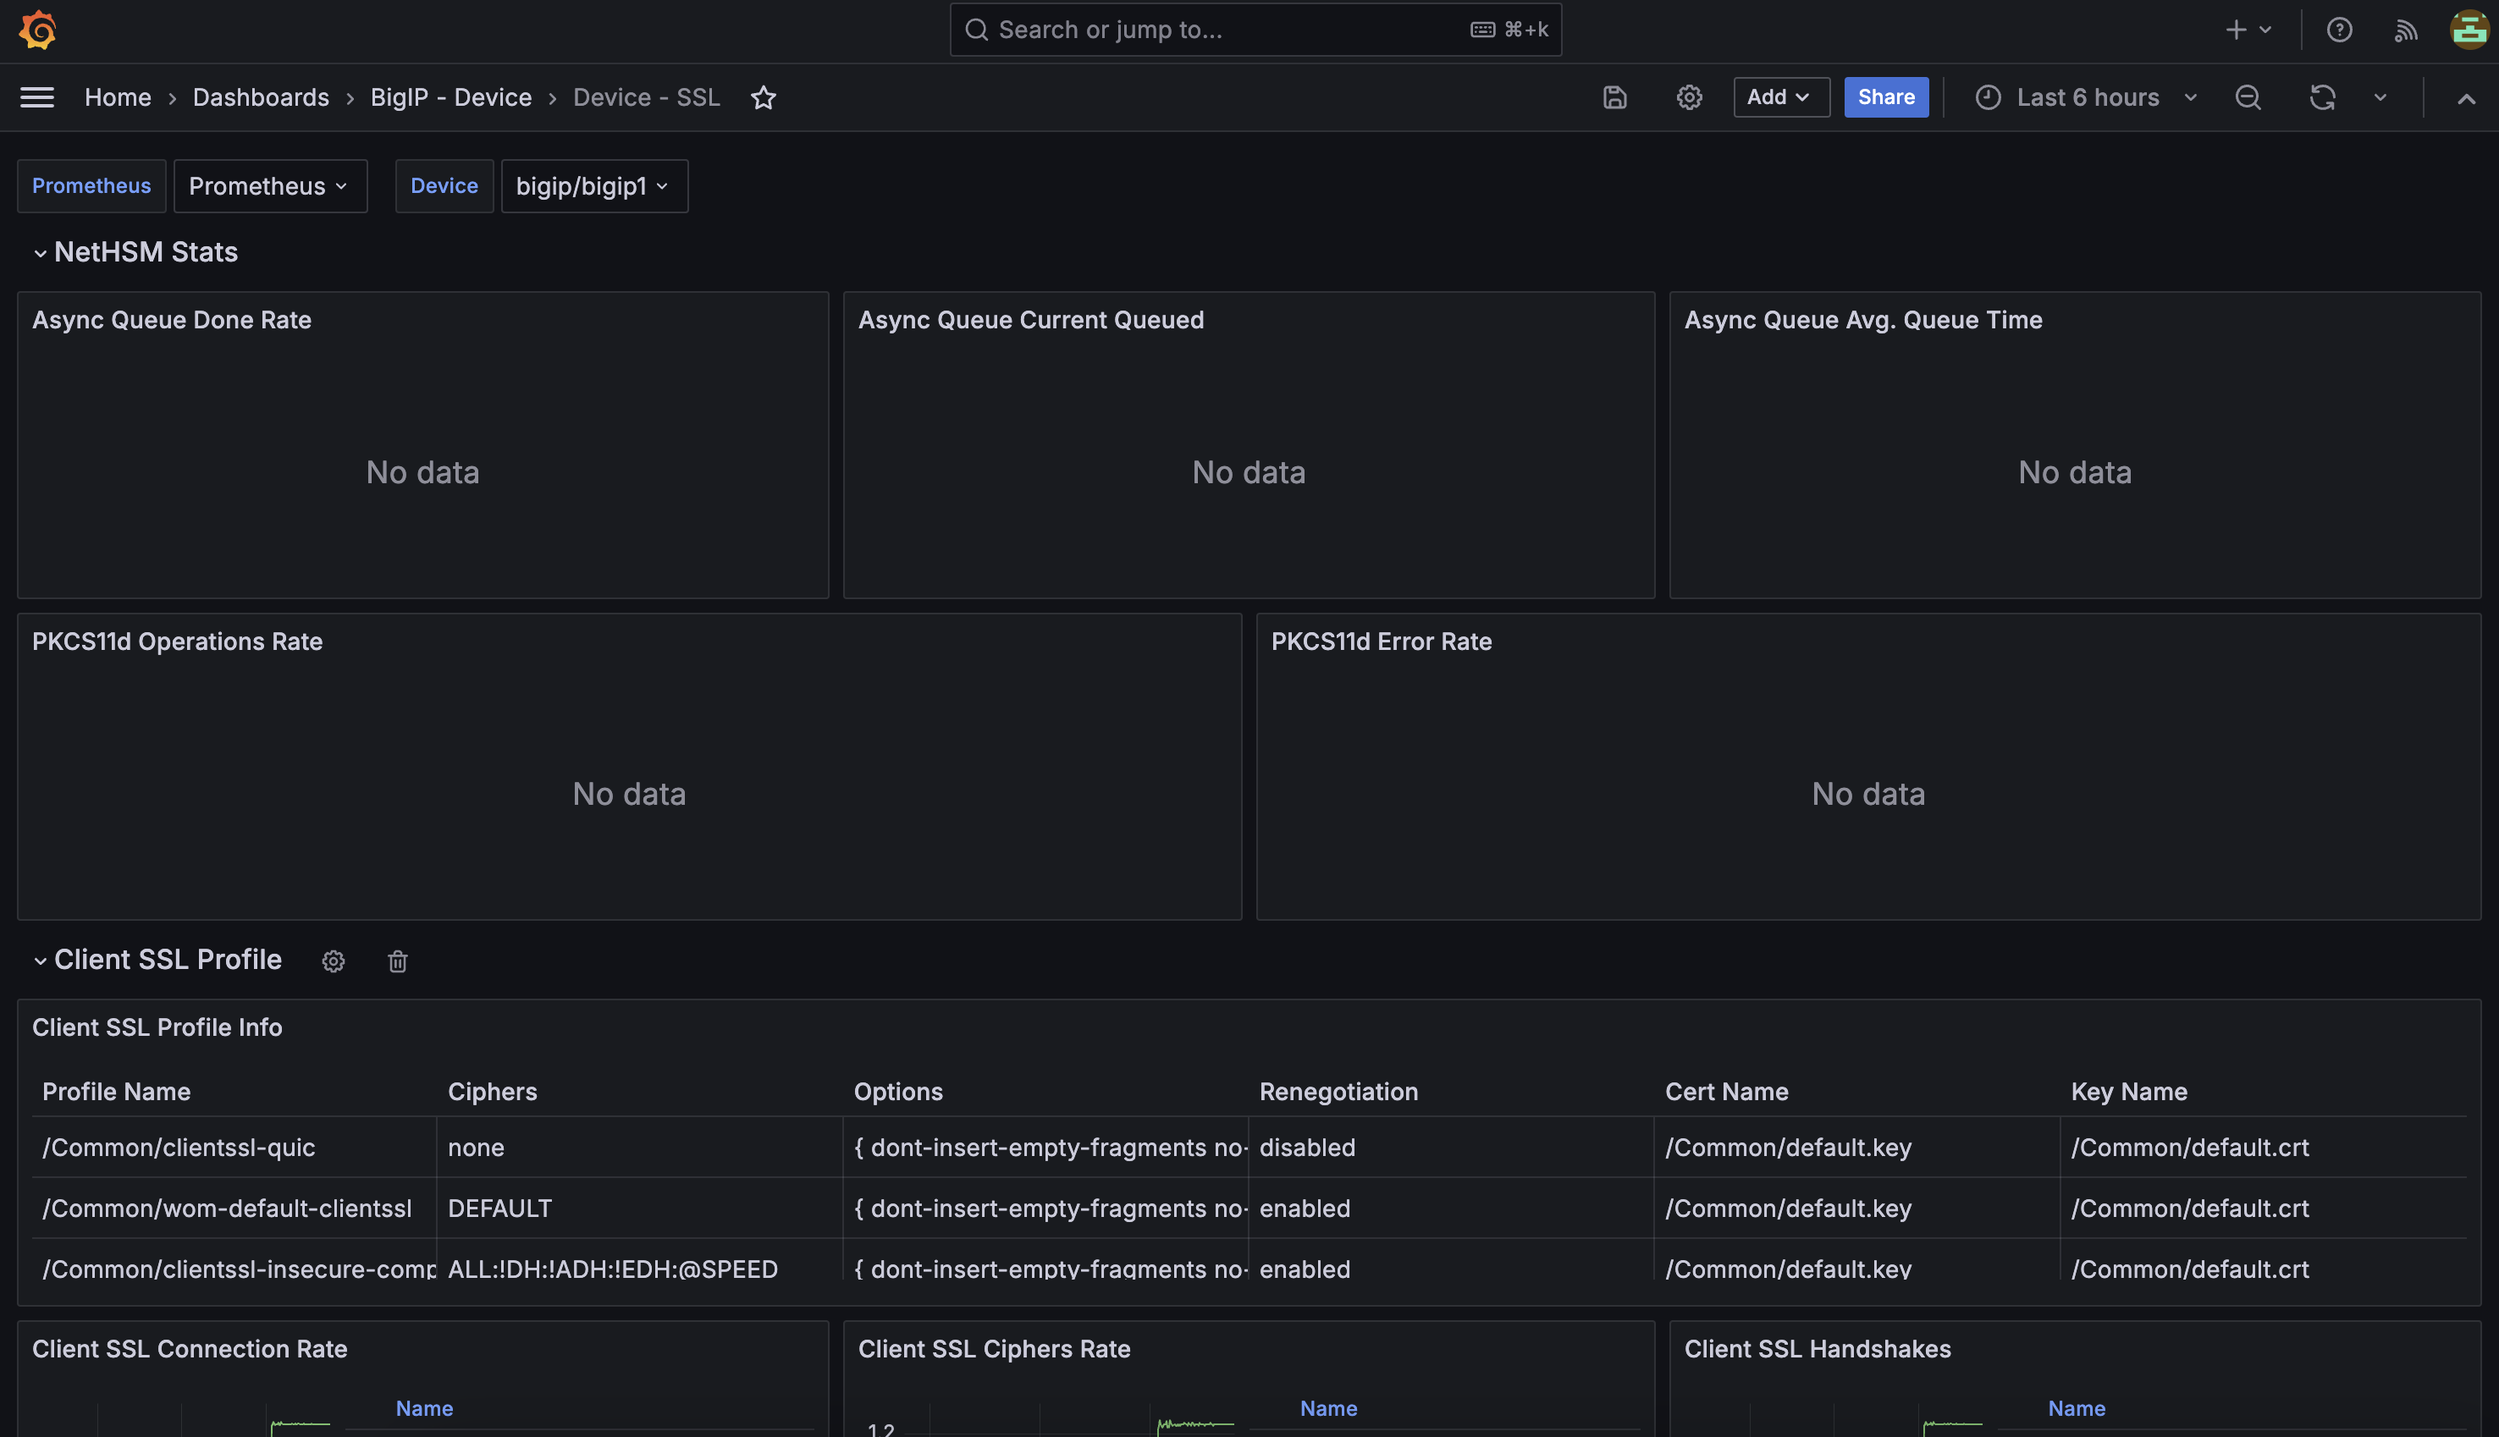
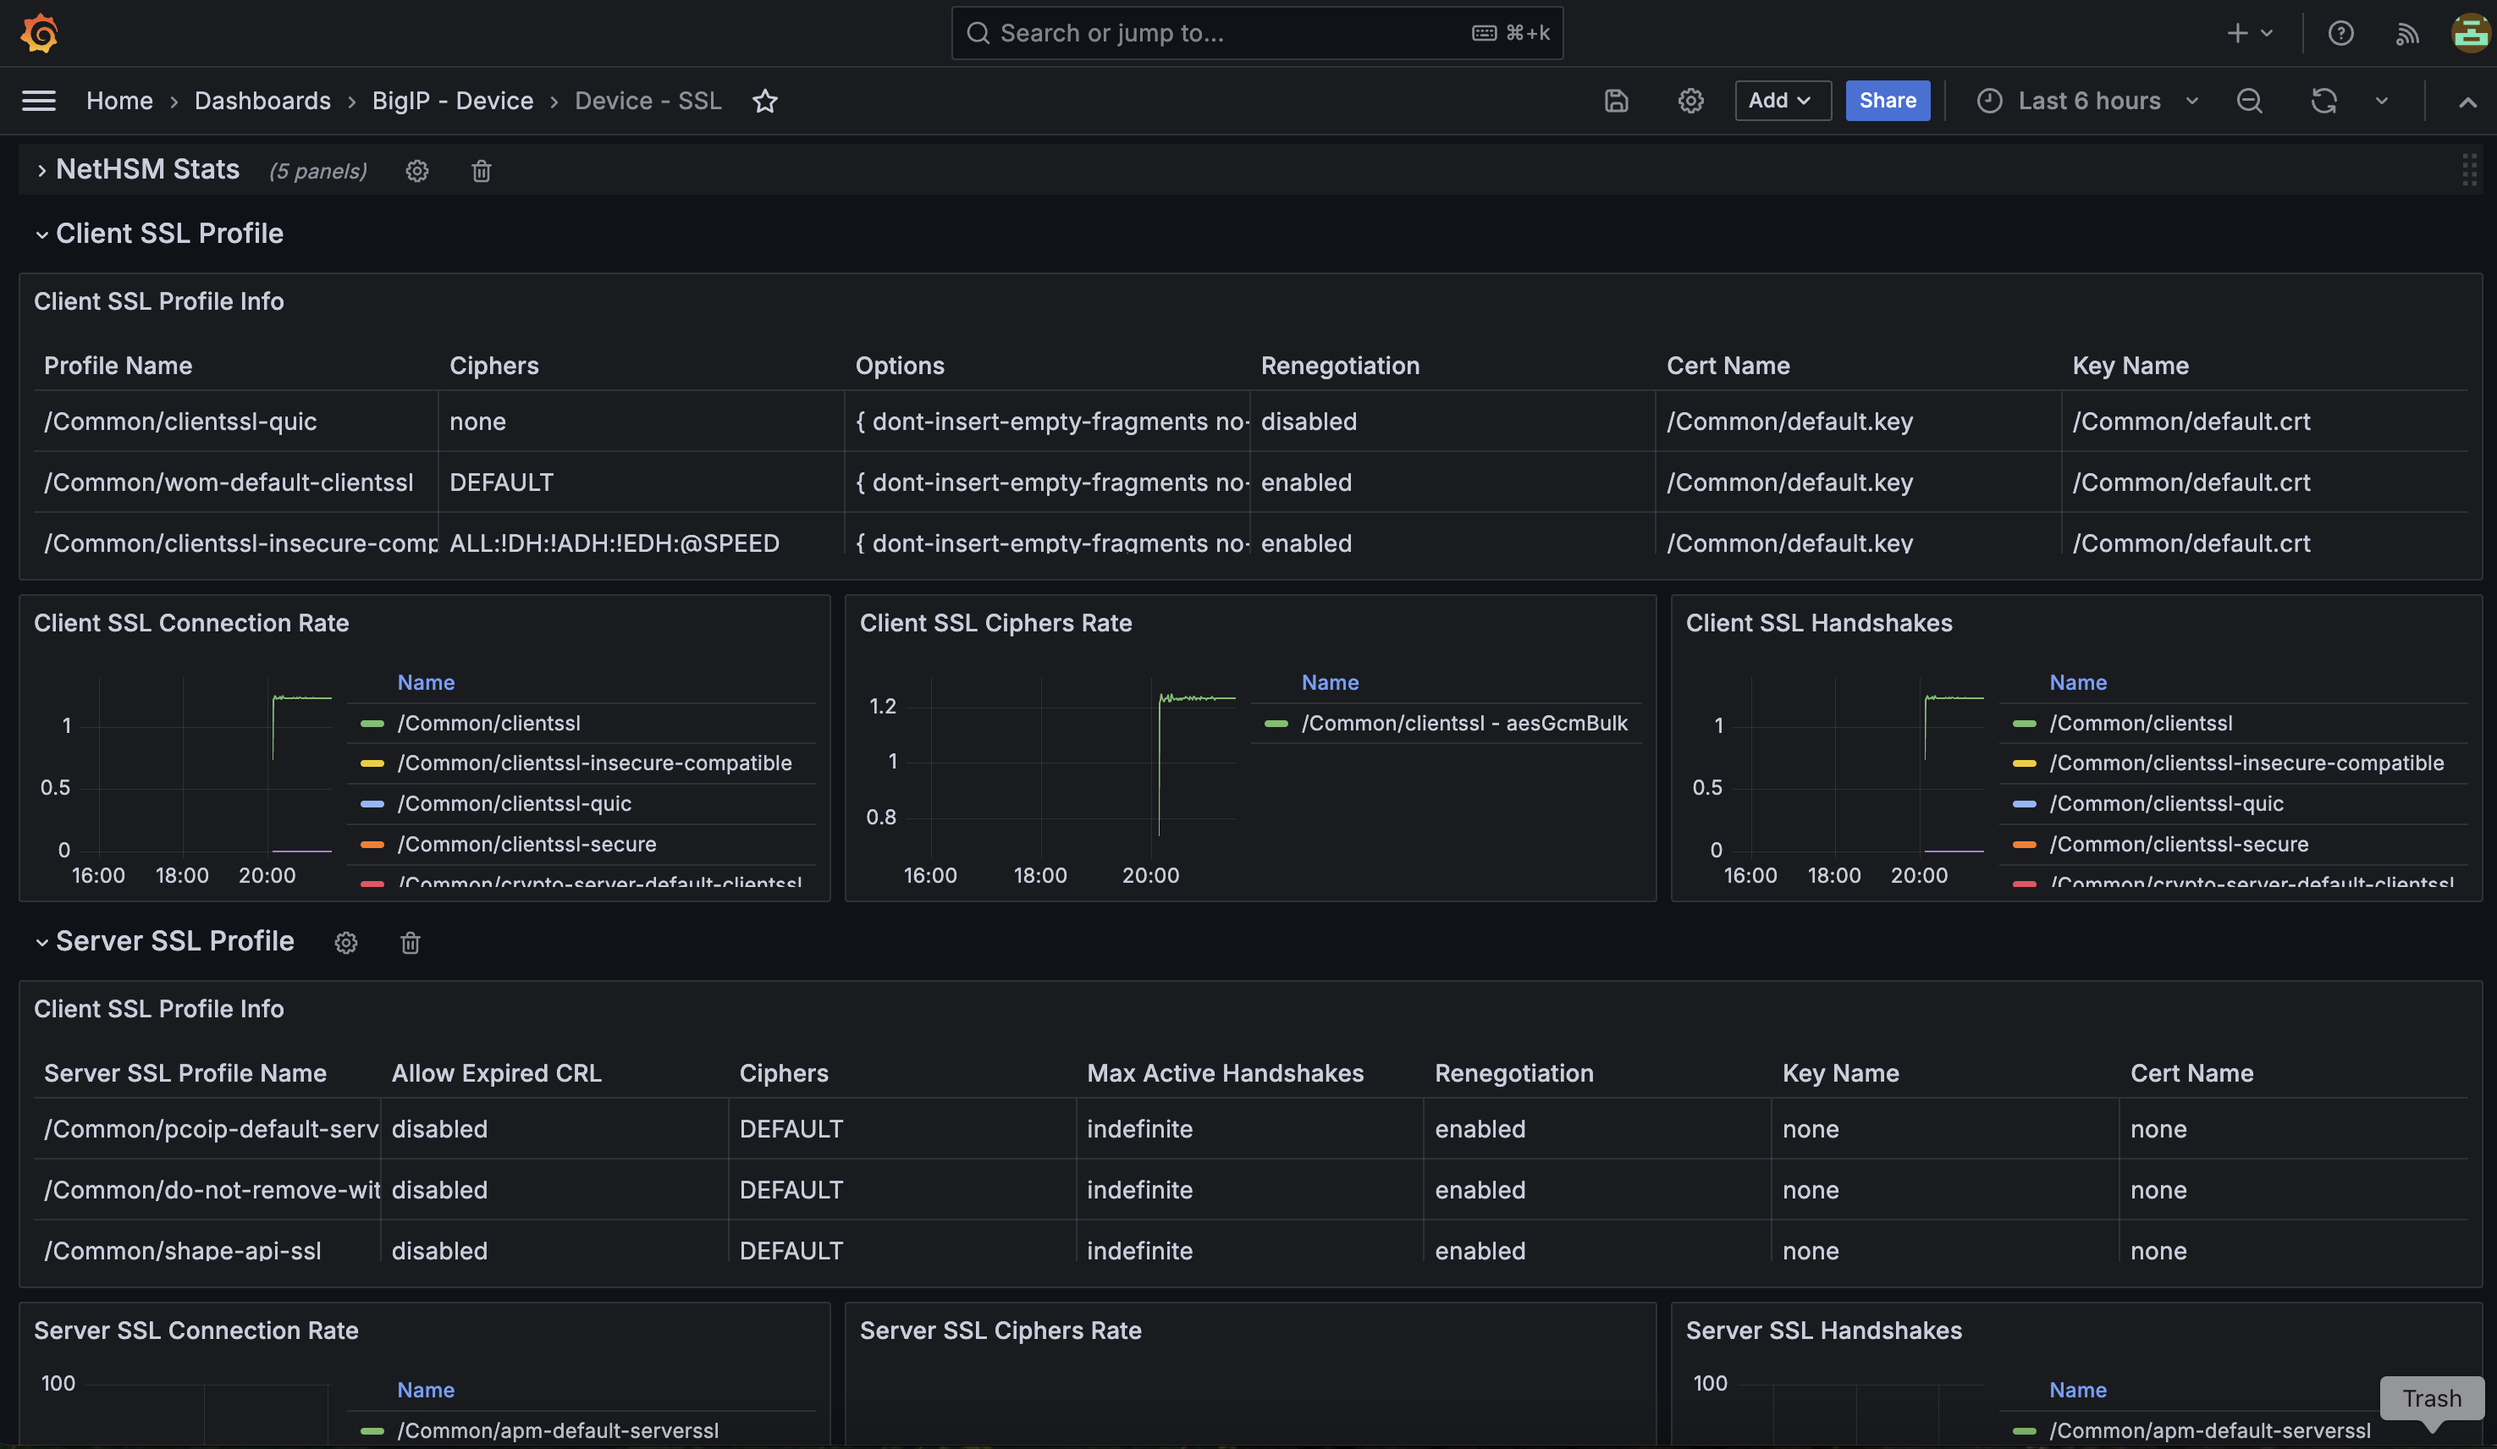
module 3 lab 2 updated device ssl dashboard image and description

diff --git a/docs/class1/module3/lab2.rst b/docs/class1/module3/lab2.rst
@@ -355,7 +355,7 @@ Available Metrics include:
 Device GTM
 ----------
 
-Last, but certainly not least, the **Device GTM** dashboard provides a view of the DNS and global resiliency metrics across your F5 BIG-IP estate.
+The **Device GTM** dashboard provides a view of the DNS and global resiliency metrics across your F5 BIG-IP estate.
 
 .. note:: One of the first things you'll notice about this dashboard is the presence of configuration instructions. Please take note of these and be sure your ``ast_defaults.yaml`` and ``bigip_receivers.yaml`` files are properly configured. Otherwise, stats will not be collected and displayed.
 
@@ -372,7 +372,7 @@ Available Metrics include:
 Device SSL
 ----------
 
-The **Device SSL** dashboard ...
+Last, but certainly not least, the **Device SSL** dashboard gives administrators a view of NetHSM statistics as well as client and server SSL profile data and stats. This is a very important area of focus, as BIG-IP is almost always used as a means by which to offload SSL operations and break/inspect application traffic.
 
 Available Metrics include:
 
